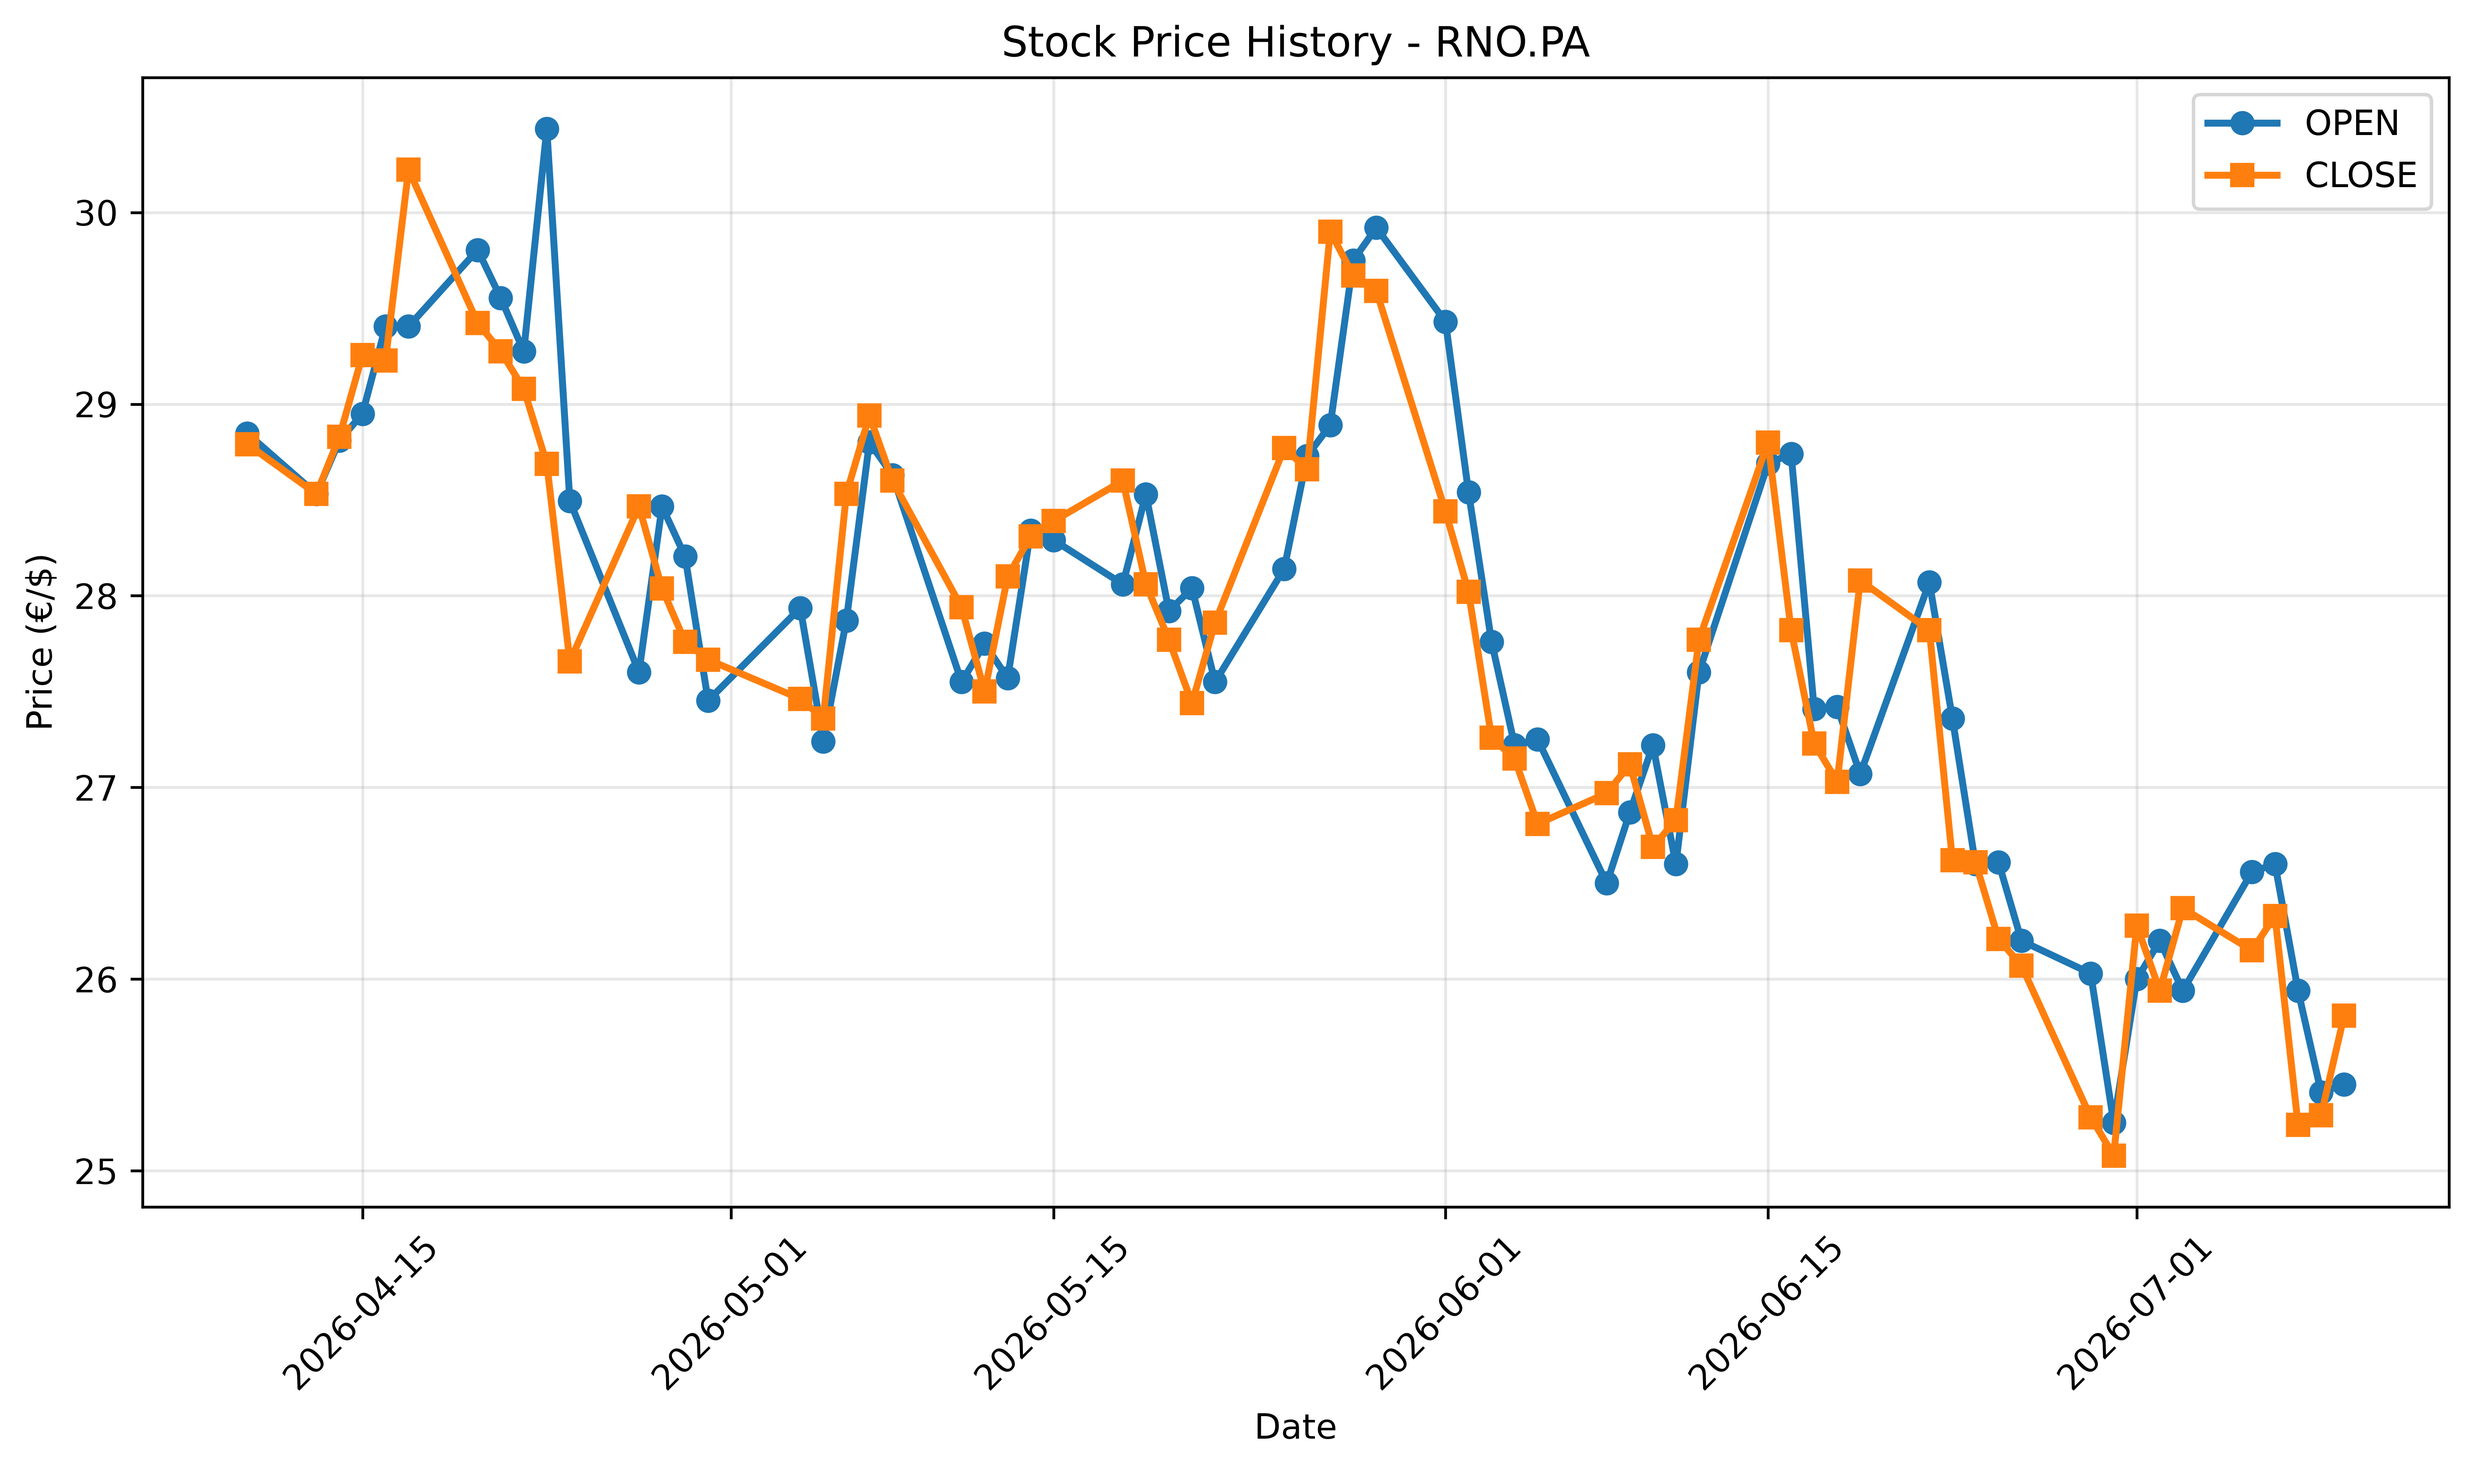
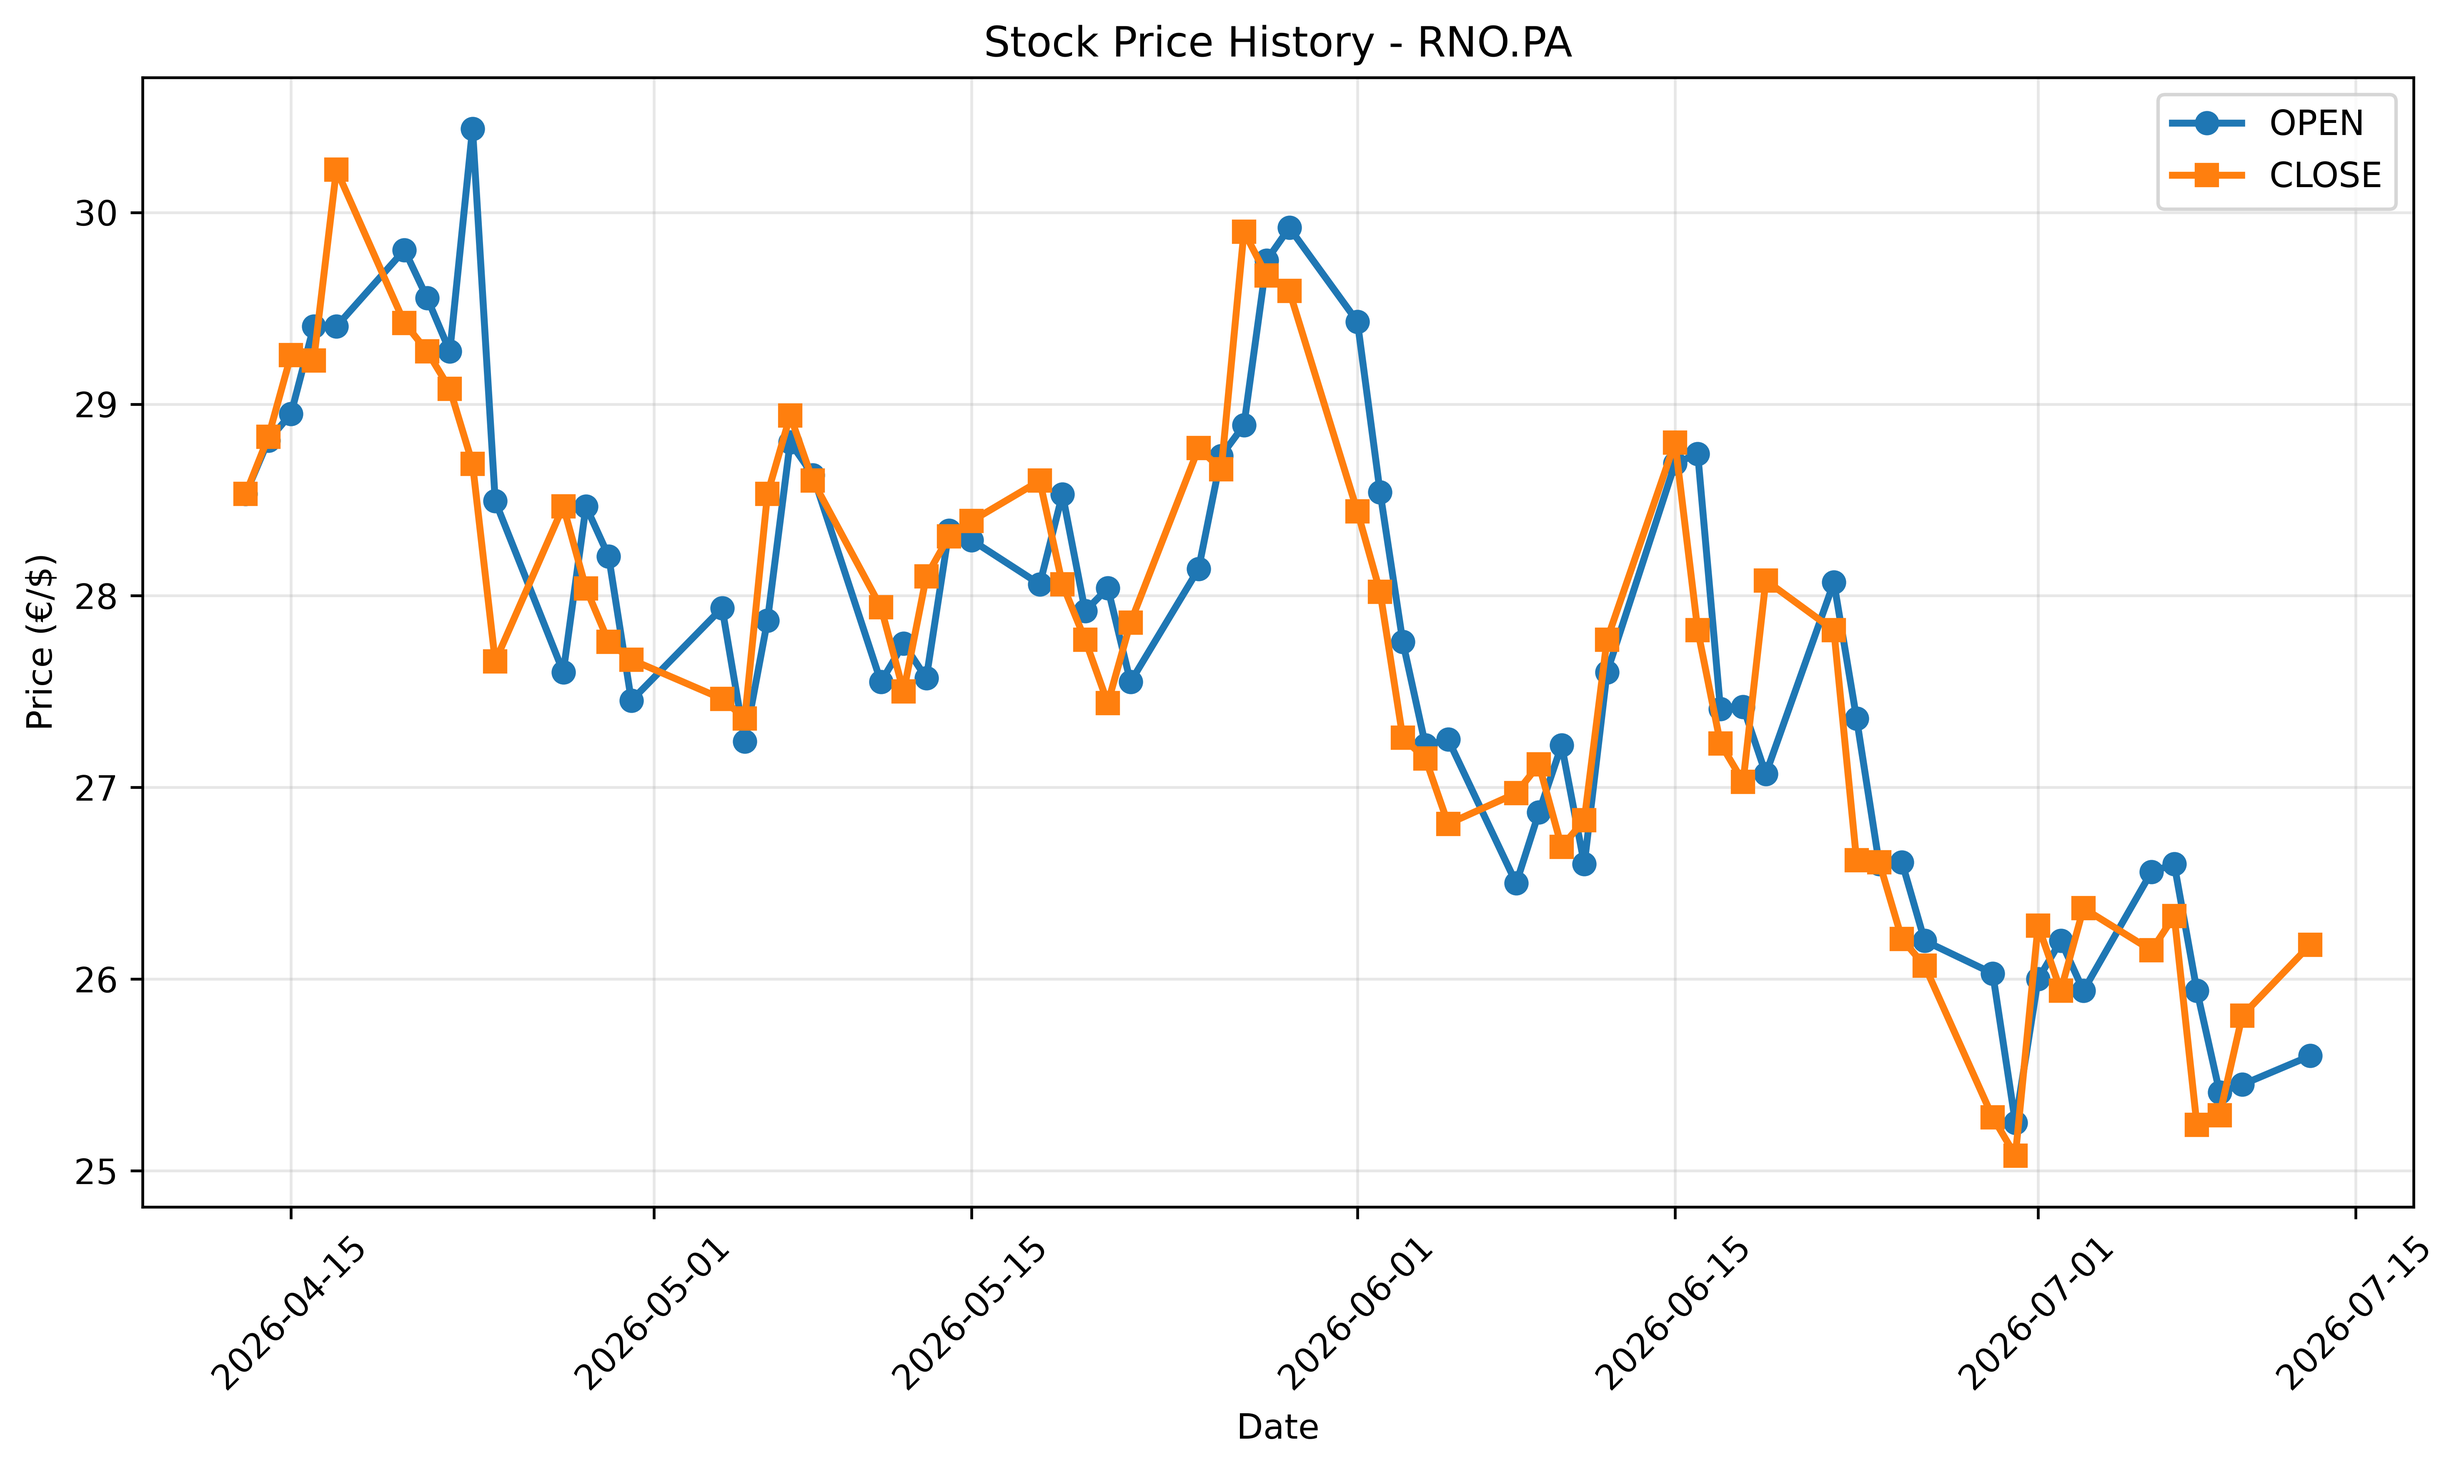
Organize reports with timestamped exports
Move CSV and PNG reports to dedicated Rapports directories and add timestamp suffixes to avoid overwriting existing files. Update yfinance script to save reports with the new structure and datetime formatting.

diff --git a/Services/yfinance/yfinance_Example_RNOpa.py b/Services/yfinance/yfinance_Example_RNOpa.py
@@ -7,6 +7,8 @@
 # https://ranaroussi.github.io/yfinance/#quick-start
 # https://ranaroussi.github.io/yfinance/reference/index.html
 
+import datetime                     #Framework permettant de gérer les dates et les heures.
+
 import yfinance as yf               #Framework permettant l'obtention des informations financières.
 import pandas as pd                 #Framework permettant le traitement des informations reçues.
 import matplotlib.pyplot as plt     #Framework permettant de générer des graphiques.
@@ -36,7 +38,11 @@ def yfinance(ticker, period='5d', output_csv=True):                             
         
         # Save data to CSV if requested
         if output_csv:
-            csv_filename = f"HISTORIQUE_{ticker}_{period}.csv"                                                                                      # Create a CSV filename based on the ticker and period
+            rootCSV = Path(__file__).resolve().parents[2]                                                                                           # Remonter de deux niveaux pour atteindre le répertoire racine du projet
+            reportPath = rootCSV / "Rapports"/ "CSV"                                                                                                # Chemin vers le répertoire "Rapports/CSV"
+            reportPath.mkdir(parents=True, exist_ok=True)                                                                                           # Créer le répertoire s'il n'existe pas           
+            D = datetime.datetime.now()                                                                                                             # Get the current date and time for timestamping the CSV file
+            csv_filename = reportPath / f"HISTORIQUE_{ticker}_{period}_{D.strftime('%Y-%m-%d_%H-%M-%S')}.csv"                                       # Create a CSV filename based on the ticker and period
             history.to_csv(csv_filename)                                                                                                            # Save the historical data to a CSV file with a name based on the ticker and period
             print(f"Data saved to {csv_filename}")                                                                                                  # Affichage console pour confirmer l'enregistrement du fichier CSV
         
@@ -61,9 +67,10 @@ def yfinance(ticker, period='5d', output_csv=True):                             
         
         # Enregistrer le graphique en haute résolution
         rootPNG = Path(__file__).resolve().parents[2]                                                                                               # Remonter de deux niveaux pour atteindre le répertoire racine du projet
-        report = rootPNG / "Rapports"/ "PNG"                                                                                                        # Chemin vers le répertoire "Rapports/PNG"
-        report.mkdir(parents=True, exist_ok=True)                                                                                                   # Créer le répertoire s'il n'existe pas 
-        filename = report / f"{ticker}_{period}.png"                                                                                                # Nom du fichier PNG
+        reportPath = rootPNG / "Rapports"/ "PNG"                                                                                                    # Chemin vers le répertoire "Rapports/PNG"
+        reportPath.mkdir(parents=True, exist_ok=True)                                                                                               # Créer le répertoire s'il n'existe pas 
+        D = datetime.datetime.now()                                                                                                                 # Get the current date and time for timestamping the CSV file
+        filename = reportPath / f"{ticker}_{period}_{D.strftime('%Y-%m-%d_%H-%M-%S')}.png"                                                          # Create a PNG filename based on the ticker and period
         plt.savefig(filename, dpi=600, bbox_inches='tight')                                                                                         # Enregistrer le graphique en haute résolution (600 dpi) avec des marges ajustées
         print(f"Data saved to {filename}")                                                                                                          # Affichage console pour confirmer l'enregistrement du graphique
         plt.close()                                                                                                                                 # Fermer la figure pour libérer de la mémoire et éviter les conflits avec d'autres graphiques
